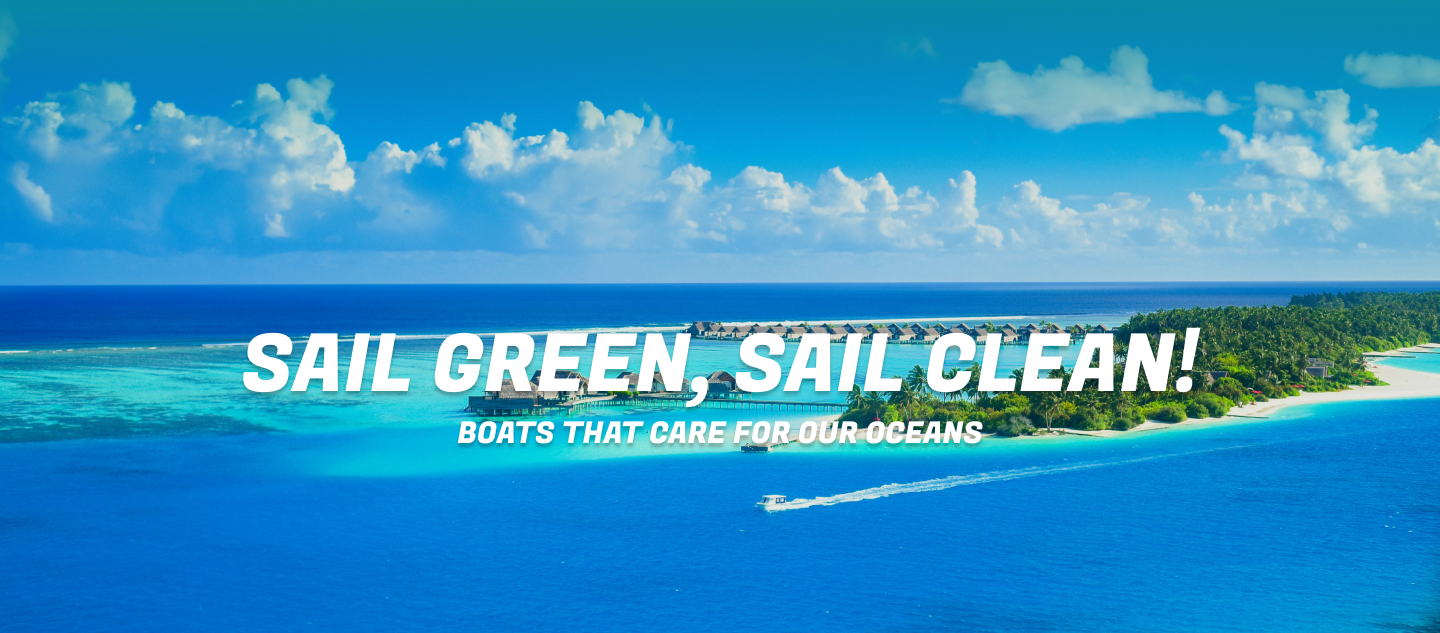
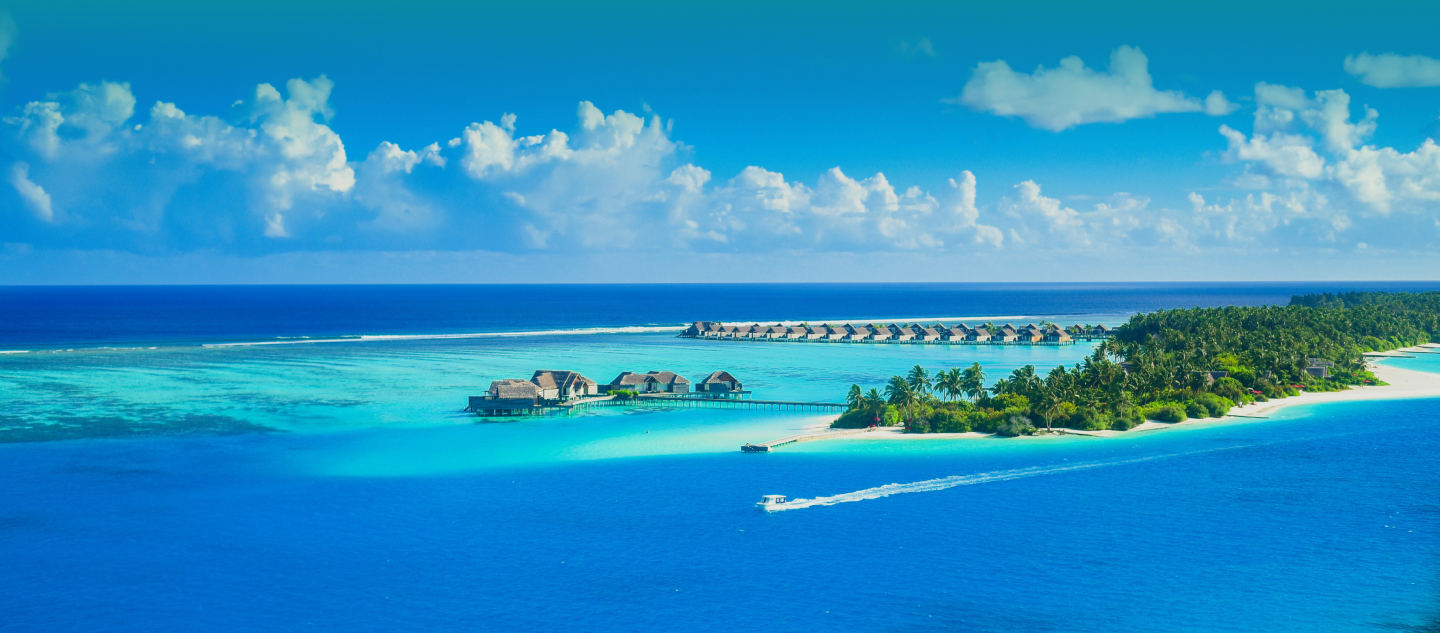
header carousel updated

Changed region(s): [[0.1562, 0.5103, 0.8438, 0.7204]]

diff --git a/src/components/Carousel.tsx b/src/components/Carousel.tsx
@@ -1,5 +1,6 @@
 import "react-responsive-carousel/lib/styles/carousel.min.css"; // requires a loader
 import { Carousel } from 'react-responsive-carousel';
+import Button from "./Button";
 
 const Carousels = () => {
     return (
@@ -10,14 +11,40 @@ const Carousels = () => {
                 transitionTime={500}
                 infiniteLoop
             >
-                <div>
-                    <img src="src/assets/images/home-slider/1.png" />
+                <div className="flex justify-center items-center h-[800px]" style={{ backgroundImage: 'url("src/assets/images/home-slider/1.png")', backgroundRepeat: 'no-repeat', backgroundSize: 'cover' }}>
+                    <div>
+                        <p className="text-white text-8xl font-bold uppercase my-10">Start Your<br /> sea adventure here!</p>
+                        <p className="text-white text-3xl uppercase mb-20">Set Sail for Your Dreams, Feel the Joy of Freedom</p>
+                        <Button title="Explore Our Invertory!" />
+                    </div>
                 </div>
-                <div>
-                    <img src="src/assets/images/home-slider/2.png" />
+                <div className="flex justify-center items-center h-full" style={{ backgroundImage: 'url("src/assets/images/home-slider/2.png")', backgroundRepeat: 'no-repeat', backgroundSize: 'cover' }}>
+                    <div>
+                        <p className="text-white text-8xl font-bold uppercase my-10">Start Your<br /> sea adventure here!</p>
+                        <p className="text-white text-3xl uppercase mb-20">Set Sail for Your Dreams, Feel the Joy of Freedom</p>
+                        <Button title="Explore Our Invertory!" />
+                    </div>
                 </div>
-                <div>
-                    <img src="src/assets/images/home-slider/3.png" />
+                <div className="flex justify-center items-center h-full" style={{ backgroundImage: 'url("src/assets/images/home-slider/3.png")', backgroundRepeat: 'no-repeat', backgroundSize: 'cover' }}>
+                    <div>
+                        <p className="text-white text-8xl font-bold uppercase my-10">Start Your<br /> sea adventure here!</p>
+                        <p className="text-white text-3xl uppercase mb-20">Set Sail for Your Dreams, Feel the Joy of Freedom</p>
+                        <Button title="Explore Our Invertory!" />
+                    </div>
+                </div>
+                <div className="flex justify-center items-center h-full" style={{ backgroundImage: 'url("src/assets/images/home-slider/4.png")', backgroundRepeat: 'no-repeat', backgroundSize: 'cover' }}>
+                    <div>
+                        <p className="text-white text-8xl font-bold uppercase my-10">Start Your<br /> sea adventure here!</p>
+                        <p className="text-white text-3xl uppercase mb-20">Set Sail for Your Dreams, Feel the Joy of Freedom</p>
+                        <Button title="Explore Our Invertory!" />
+                    </div>
+                </div>
+                <div className="flex justify-center items-center h-full" style={{ backgroundImage: 'url("src/assets/images/home-slider/5.png")', backgroundRepeat: 'no-repeat', backgroundSize: 'cover' }}>
+                    <div>
+                        <p className="text-white text-8xl font-bold uppercase my-10">Start Your<br /> sea adventure here!</p>
+                        <p className="text-white text-3xl uppercase mb-20">Set Sail for Your Dreams, Feel the Joy of Freedom</p>
+                        <Button title="Explore Our Invertory!" />
+                    </div>
                 </div>
             </Carousel>
         </div>

diff --git a/src/pages/Home.tsx b/src/pages/Home.tsx
@@ -8,7 +8,9 @@ import Reviews from "../components/reviews/Reviews";
 import Contents from "../content/contents";
 import images from "../content/contents";
 import { Image } from "../types/type";
-// const sliderImages = require.context("src/assets/images/home-slider")
+
+
+
 const Home = () => {
   return (
     <div >
@@ -66,7 +68,7 @@ const Home = () => {
       </div>
 
       {/* Help with your boat (Care) */}
-      <div className="text-center">
+      <div className="text-center my-20">
         <div className="flex justify-center"><img src={Contents.homeservice.src[2]} alt="" /></div>
         <p className="my-5 text-[#0989A4] text-4xl font-birthstone font-bold">Help with your boat?</p>
         <p className="text-[#063752] text-6xl font-bold uppercase italic">Seamless care for smoothin saling</p>

diff --git a/index.html b/index.html
@@ -2,7 +2,7 @@
 <html lang="en">
   <head>
     <meta charset="UTF-8" />
-    <link rel="icon" type="image/svg+xml" href="/logo.png" />
+    <link rel="icon" type="image/svg+xml" href="/bluelogo.png" />
     <meta name="viewport" content="width=device-width, initial-scale=1.0" />
     <link rel="preconnect" href="https://fonts.googleapis.com">
     <link rel="preconnect" href="https://fonts.gstatic.com" crossorigin>
